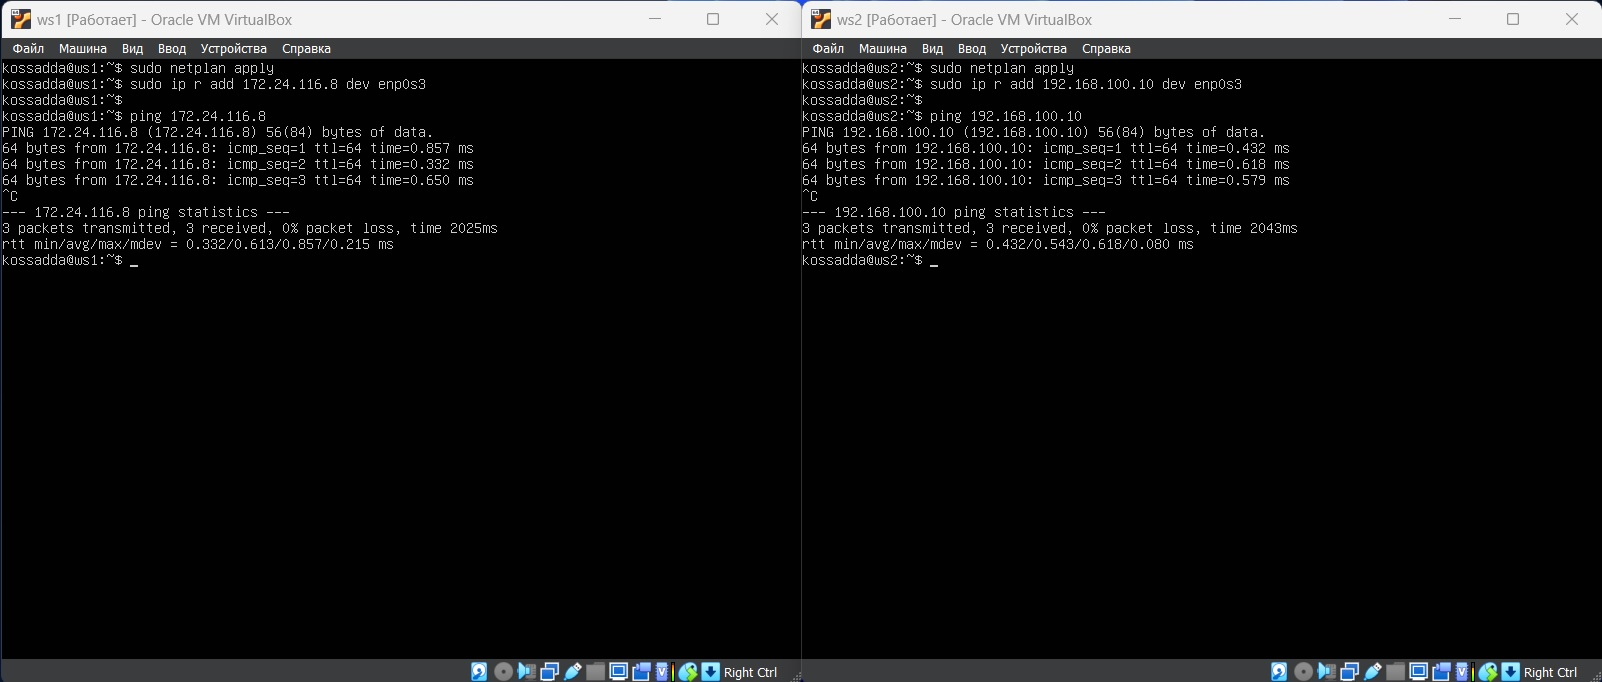
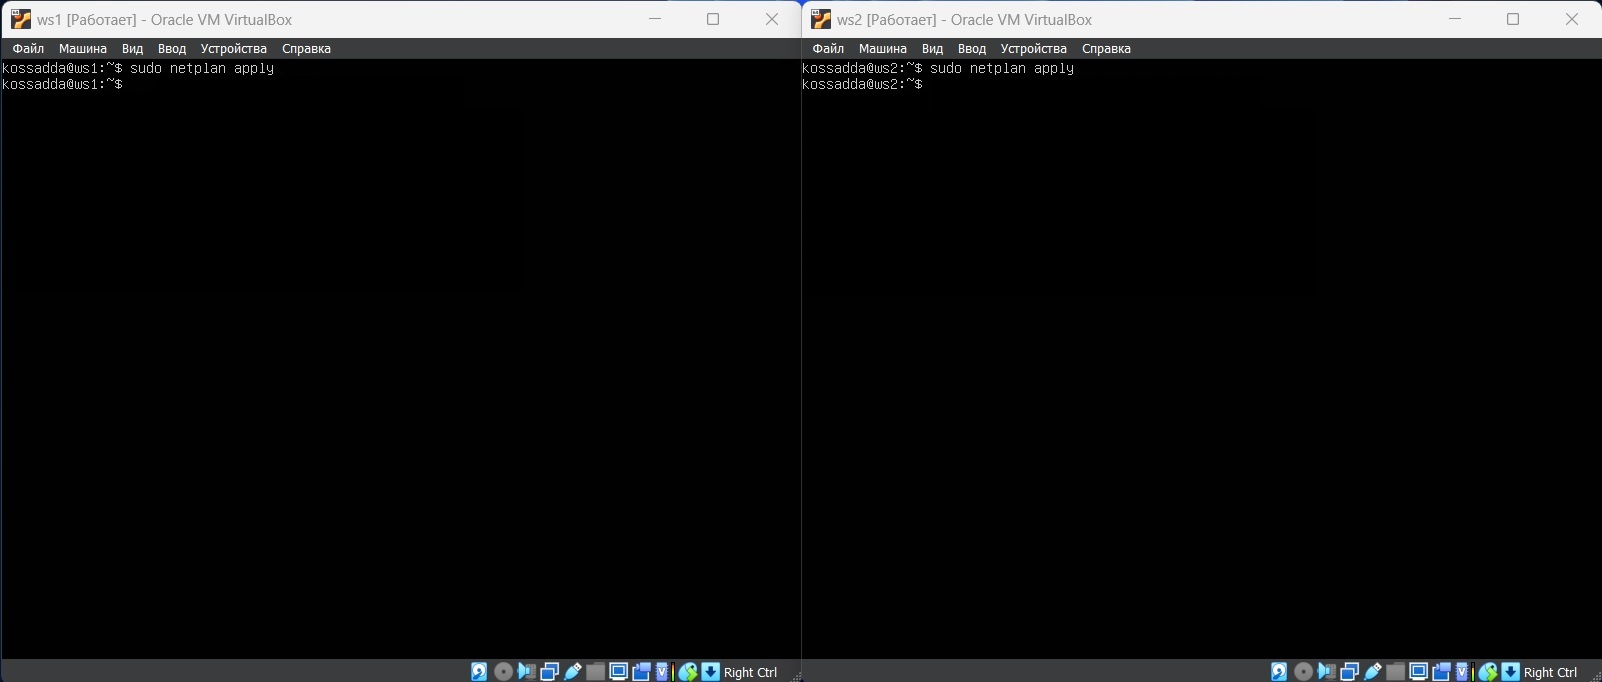
9

diff --git a/src/report.md b/src/report.md
@@ -10,6 +10,7 @@
    1.2. [localhost](#12-localhost) <br>
    1.3. [Диапазоны и сегменты сетей](#13-диапазоны-и-сегменты-сетей)
 2. [Part 2. Статическая маршрутизация между двумя машинами](#part-2-статическая-маршрутизация-между-двумя-машинами) <br>
+   2.1. [Добавление статического маршрута вручную](#21-добавление-статического-маршрута-вручную) <br>
 
 ## Part 1. Инструмент ipcalc
 - Установка утилиты ipcalc <br>
@@ -145,3 +146,24 @@
 ***Назначение:*** Используется для подключения вашего компьютера к сети, включая локальную сеть (LAN) или сеть Интернет. Этот интерфейс обеспечивает сетевую связь вашего компьютера с другими устройствами в сети. <br>
 **ws1: 10.0.2.15/24** <br>
 **ws2: 10.0.2.15/24** <br>
+
+Описать сетевой интерфейс, соответствующий внутренней сети, на обеих машинах и задать следующие адреса и маски: ws1 - 192.168.100.10, маска /16, ws2 - 172.24.116.8, маска /12
+
+- Открыть файл конфигурации сетевых интерфейсов и внести необходимые изменения: <br>
+`sudo vim /etc/netplan/00-installer-config.yaml` <br>
+<img src="../misc/images/14.jpg" alt="14" />
+
+- Выполнить команду netplan apply для перезапуска сервиса сети: <br>
+`sudo netplan apply` <br>
+<img src="../misc/images/15.jpg" alt="15" />
+
+### 2.1. Добавление статического маршрута вручную
+
+- Добавить статический маршрут от одной машины до другой и обратно при помощи команды вида ip r add: <br>
+**ws1:** `sudo ip r add 172.24.116.8 dev enp0s3` <br>
+**ws2:** `sudo ip r add 192.168.100.10 dev enp0s3` <br>
+
+- Пропинговать соединение между машинами: <br>
+**ws1:** `ping 172.24.116.8` <br>
+**ws2:** `ping 192.168.100.10` <br>
+<img src="../misc/images/16.jpg" alt="16" />
